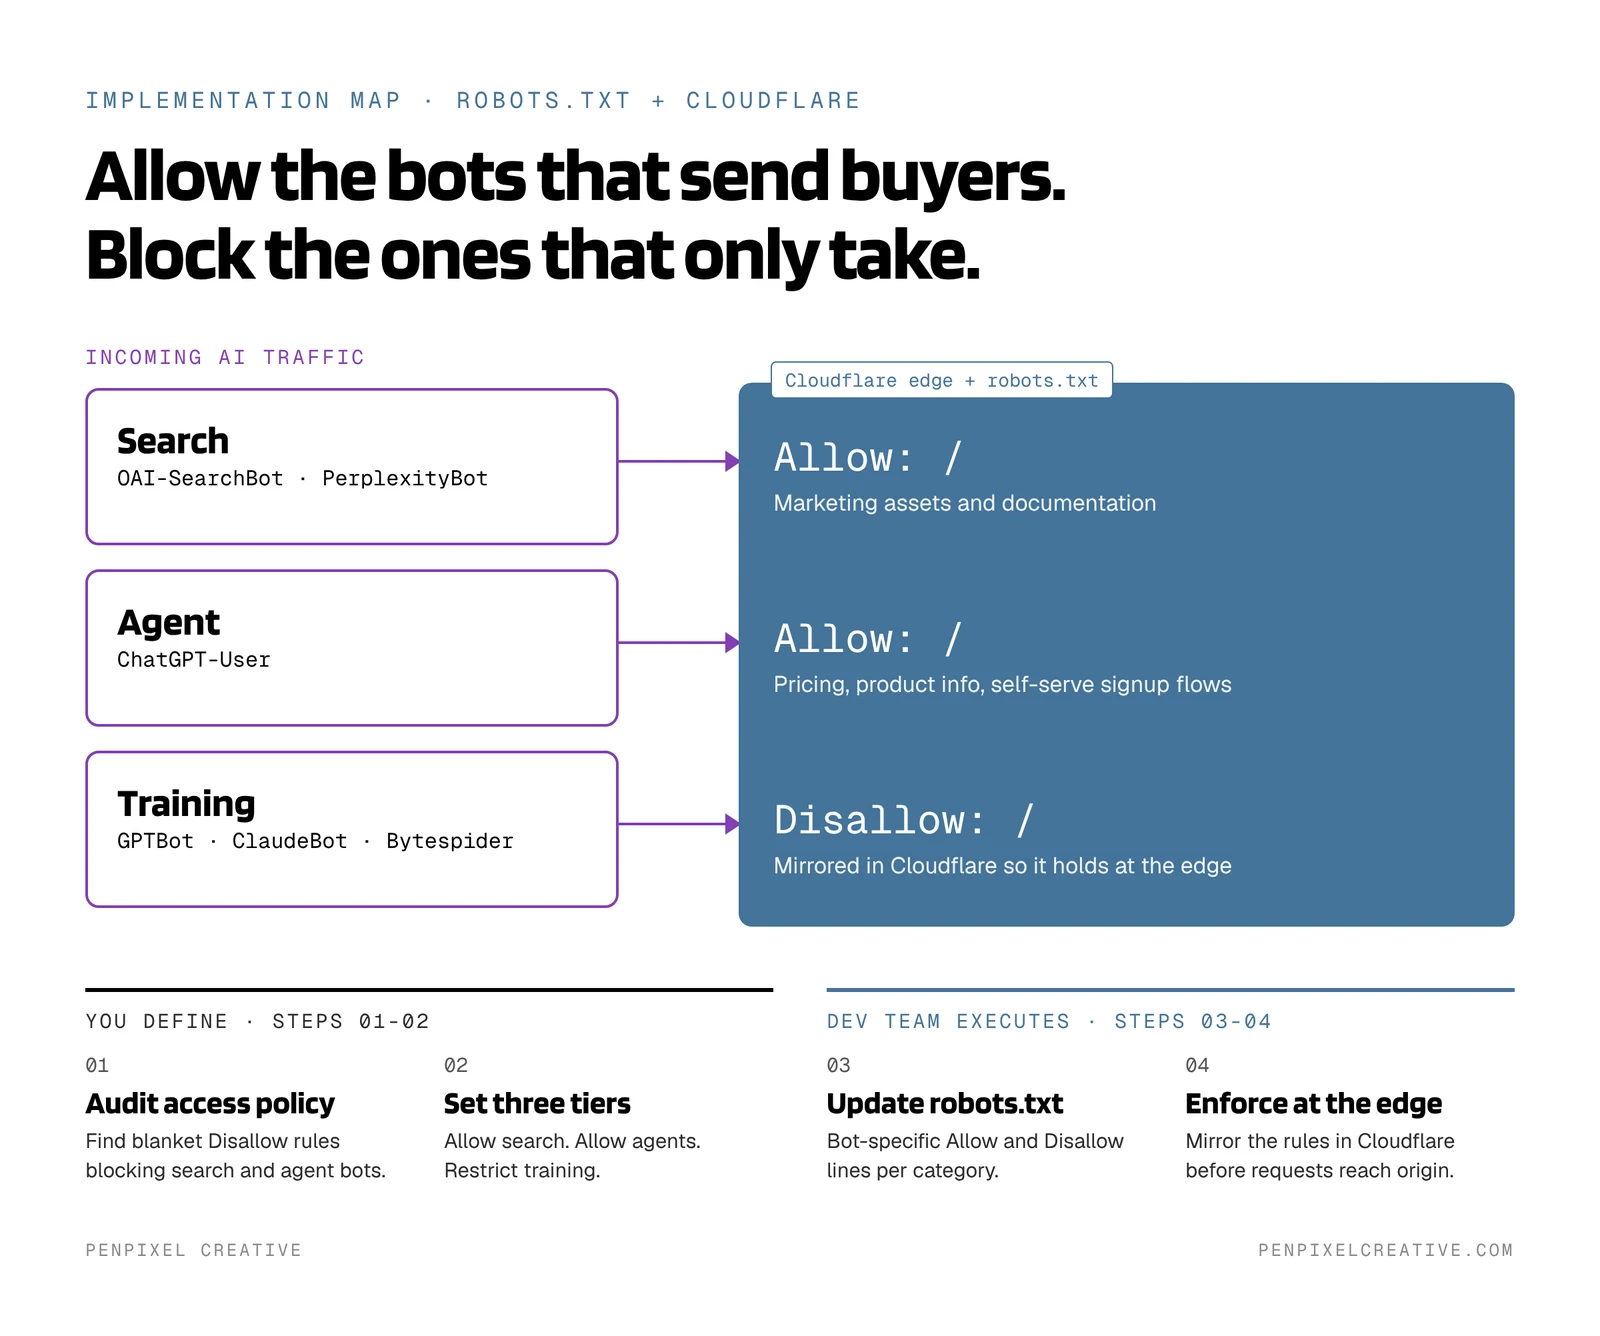
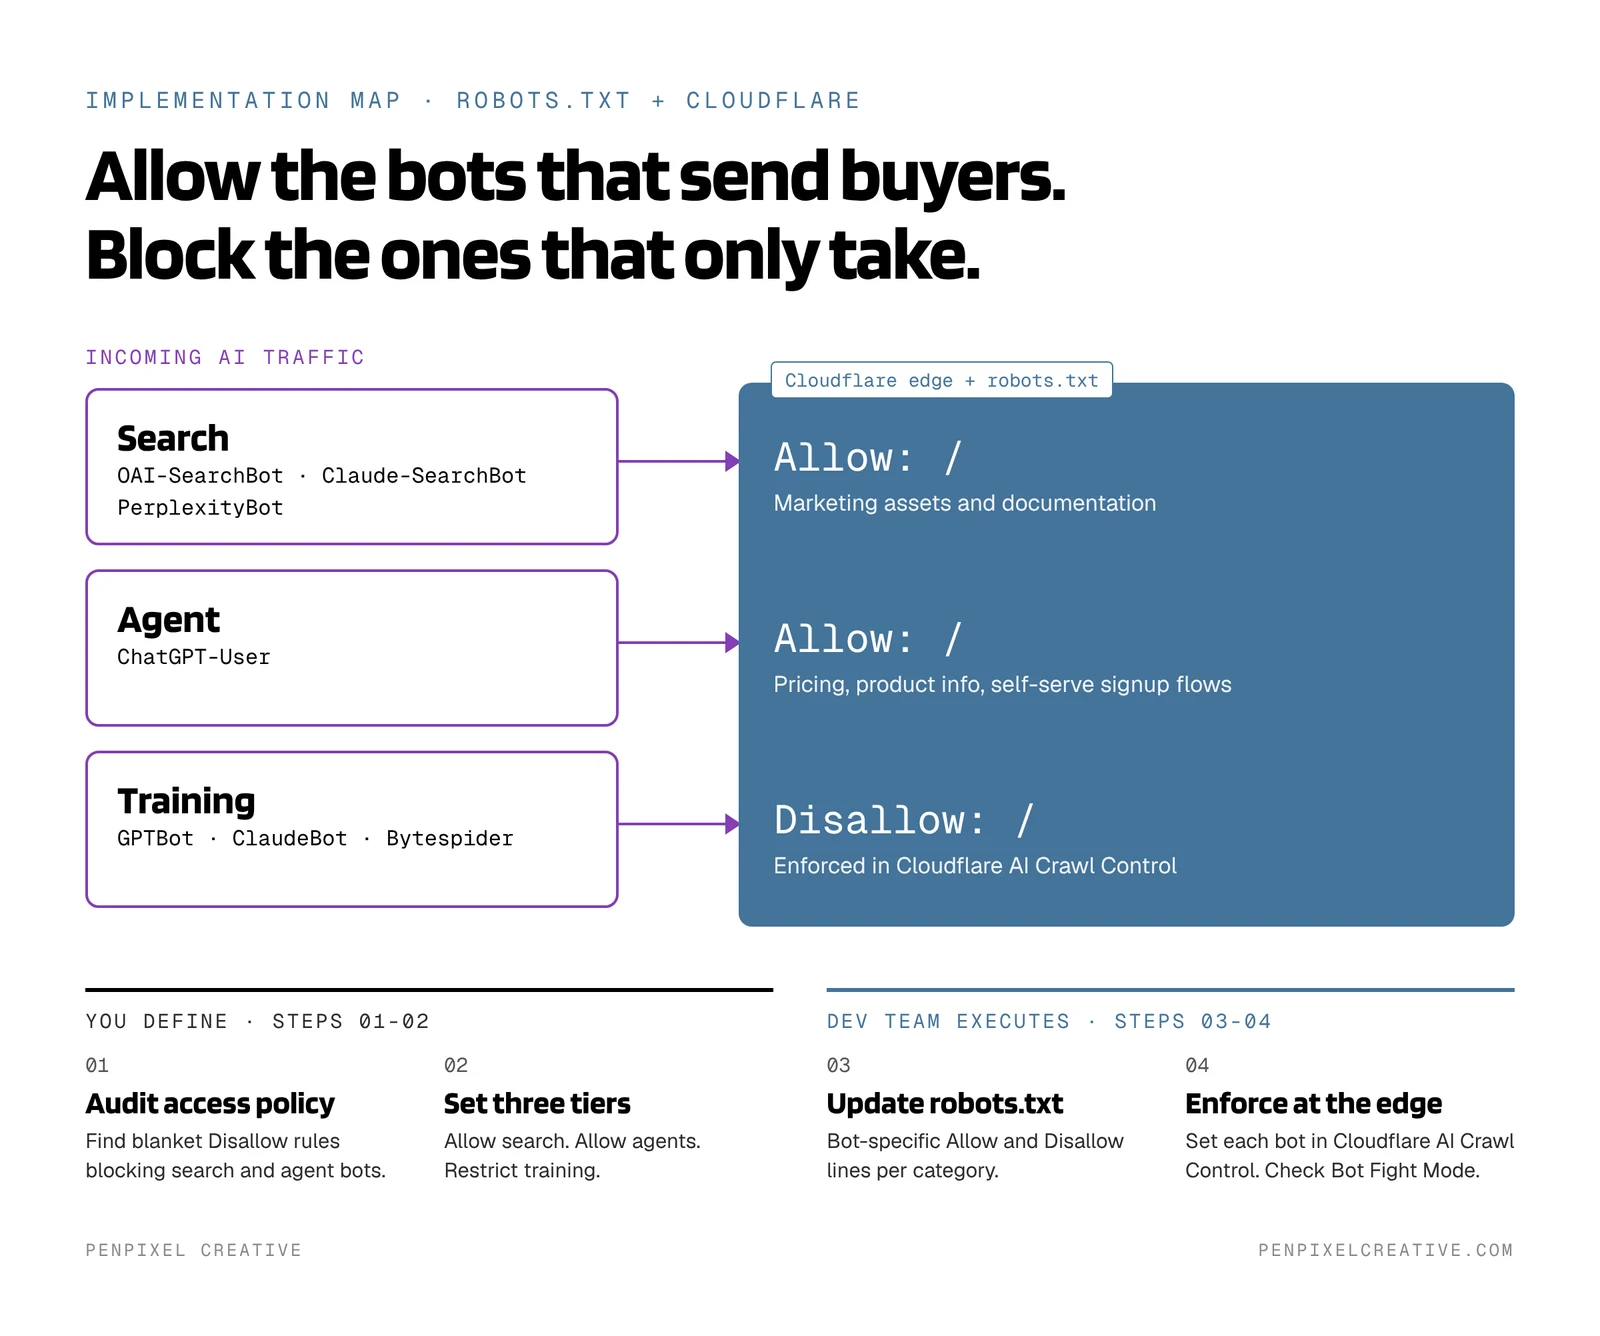
Fix crawler accuracy issues in Steering Wheel post
- Step 4: point to Cloudflare AI Crawl Control (enforced via a WAF
  custom rule), not WAF Managed Rules; add Bot Fight Mode warning
- Add Claude-SearchBot to Search examples, robots.txt block, and graphics
- Note ChatGPT-User may not honor robots.txt (per OpenAI bot docs)
- Note Bytespider's history of ignoring robots.txt; block at the edge
- FAQ 1: defaults keep Search allowed; the risk is Agent blocking on ad
  pages and Training blocks catching multi-purpose crawlers
- Steps 1 and intro reference AI Crawl Control settings

Claude-Session: https://claude.ai/code/session_01JDvDNNLgNRRinLTvTbX89y

diff --git a/src/content/blog/your-steering-wheel-for-ai-traffic.md b/src/content/blog/your-steering-wheel-for-ai-traffic.md
@@ -14,7 +14,7 @@ citation:
   - 'https://blog.google/products-and-platforms/products/search/search-io-2026/'
 faqs:
   - question: "Why does Cloudflare's new taxonomy require CMO oversight?"
-    answer: 'Default server settings prioritize network security over marketing performance. If technical teams leave default rules active, automated systems will block high-intent search crawlers and AI agents. This removes your brand from AI discovery and breaks buyer pathways.'
+    answer: 'Default settings prioritize network policy over marketing performance. Cloudflare''s defaults block Agent traffic on ad-supported pages, and blocking Training also blocks multi-purpose crawlers like Googlebot and Bingbot. A CMO needs to own that call, or engineering makes it for you.'
   - question: 'How do AI agents impact low-friction conversion motions?'
     answer: 'Modern buyers use AI agents to evaluate software, review pricing, and navigate signup flows. Blocking agentic crawlers causes these automated workflows to fail. Buyers receive errors and switch to accessible competitors.'
   - question: 'What is the risk of allowing all AI crawlers to access our domain?'
@@ -62,13 +62,13 @@ This is not an IT housekeeping exercise. It is an executive decision about where
 
 To configure your technical policy correctly, you must understand what each crawler type does when it hits your domain.
 
-<img src="/images/blog/crawler-three-categories.webp" width="1600" height="1183" loading="lazy" decoding="async" alt="The three categories of AI crawlers. Search, such as OAI-SearchBot and PerplexityBot, retrieves fresh content for live buyer queries with high business impact. Agent, such as ChatGPT-User, acts for a user by reading pricing and testing signup flows, with critical business impact. Training, such as GPTBot, ClaudeBot and Bytespider, scrapes content to train LLMs and sends no traffic back, with negative business impact.">
+<img src="/images/blog/crawler-three-categories.webp" width="1600" height="1183" loading="lazy" decoding="async" alt="The three categories of AI crawlers. Search, such as OAI-SearchBot, Claude-SearchBot and PerplexityBot, retrieves fresh content for live buyer queries with high business impact. Agent, such as ChatGPT-User, acts for a user by reading pricing and testing signup flows, with critical business impact. Training, such as GPTBot, ClaudeBot and Bytespider, scrapes content to train LLMs and sends no traffic back, with negative business impact.">
 
 ### 1. Search Bots
 
 Search bots retrieve fresh content to answer immediate user queries.
 
-- **Examples:** OAI-SearchBot, PerplexityBot
+- **Examples:** OAI-SearchBot, Claude-SearchBot, PerplexityBot
 - **Purpose:** Indexing pages to return live citations, links, and summaries.
 - **Business Impact:** High. Blocking these bots removes your product from modern answer engines, creating immediate gaps in top-of-funnel discovery.
 
@@ -92,13 +92,13 @@ Training bots collect large datasets to build foundational or fine-tuned AI mode
 
 Have your web dev team define the access rules and instruct your engineering team to execute them.
 
-Hand the following directives to your engineering or web development team to ensure your robots.txt file and Cloudflare WAF align with your revenue strategy.
+Hand the following directives to your engineering or web development team to ensure your robots.txt file and Cloudflare settings align with your revenue strategy.
 
-<img src="/images/blog/crawler-implementation-map.webp" width="1600" height="1336" loading="lazy" decoding="async" alt="Implementation map for robots.txt and Cloudflare. Incoming Search traffic (OAI-SearchBot, PerplexityBot) and Agent traffic (ChatGPT-User) are allowed through to marketing assets, pricing, product info and signup flows. Training traffic (GPTBot, ClaudeBot, Bytespider) is disallowed and mirrored in Cloudflare at the edge. Steps 1 and 2, audit access policy and set three tiers, are defined by you. Steps 3 and 4, update robots.txt and enforce at the edge, are executed by the dev team.">
+<img src="/images/blog/crawler-implementation-map.webp" width="1600" height="1336" loading="lazy" decoding="async" alt="Implementation map for robots.txt and Cloudflare. Incoming Search traffic (OAI-SearchBot, Claude-SearchBot, PerplexityBot) and Agent traffic (ChatGPT-User) are allowed through to marketing assets, pricing, product info and signup flows. Training traffic (GPTBot, ClaudeBot, Bytespider) is disallowed and mirrored in Cloudflare at the edge. Steps 1 and 2, audit access policy and set three tiers, are defined by you. Steps 3 and 4, update robots.txt and enforce at the edge, are executed by the dev team.">
 
 ### Step 1: Request an Access Policy Audit
 
-Ask your technical team to review your current robots.txt file and Cloudflare WAF rules. Ensure they are not using blanket Disallow directives that accidentally block high-value search and agent crawlers.
+Ask your technical team to review your current robots.txt file, Cloudflare AI Crawl Control settings, and WAF rules. Ensure they are not using blanket Disallow directives that accidentally block high-value search and agent crawlers.
 
 ### Step 2: Define Your Access Rules
 
@@ -112,12 +112,15 @@ Instruct your developers to apply a three-tiered access model:
 
 Have your developer update your root robots.txt file using clear bot-specific parameters:
 
-<img src="/images/blog/crawler-robots-directives.webp" width="1600" height="1789" loading="lazy" decoding="async" alt="Annotated robots.txt file at yourdomain.com/robots.txt. Search and citation engines OAI-SearchBot and PerplexityBot are allowed. The user-directed agent ChatGPT-User is allowed. Training scrapers GPTBot, ClaudeBot and Bytespider are disallowed. Next step: mirror these rules in Cloudflare so they hold at the edge.">
+<img src="/images/blog/crawler-robots-directives.webp" width="1600" height="1905" loading="lazy" decoding="async" alt="Annotated robots.txt file at yourdomain.com/robots.txt. Search and citation engines OAI-SearchBot, Claude-SearchBot and PerplexityBot are allowed. The user-directed agent ChatGPT-User is allowed. Training scrapers GPTBot, ClaudeBot and Bytespider are disallowed. Next step: enforce these rules in Cloudflare AI Crawl Control so they hold at the edge.">
 
 Copy-paste version:
 
 <pre><code># Allow AI Search and Citation Engines
 User-agent: OAI-SearchBot
+Allow: /
+
+User-agent: Claude-SearchBot
 Allow: /
 
 User-agent: PerplexityBot
@@ -137,9 +140,16 @@ Disallow: /
 User-agent: Bytespider
 Disallow: /</code></pre>
 
-### Step 4: Verify in Cloudflare WAF
+Two caveats your developer needs to know:
 
-If your team uses Cloudflare for security, instruct them to mirror these rules within Cloudflare's Security > WAF > Managed Rules interface to enforce these policies at the network edge before requests hit your origin server.
+- **ChatGPT-User may not honor robots.txt.** OpenAI says that because its actions are initiated by a live user, robots.txt rules may not apply. To control agent access reliably, set it at the edge in Step 4.
+- **Bytespider has a documented history of ignoring robots.txt.** Block it at the edge too, not just in this file.
+
+### Step 4: Enforce in Cloudflare AI Crawl Control
+
+In the Cloudflare dashboard, open AI Crawl Control for your domain and set each crawler to Allow or Block. Cloudflare enforces those choices with a WAF custom rule at the network edge, before requests reach your origin server.
+
+If Bot Fight Mode is on, your allow rules can't override it. Cloudflare does not let WAF custom rules bypass Bot Fight Mode, so check it before assuming search bots get through.
 
 ## The Strategic Advantage of Granular Control
 
